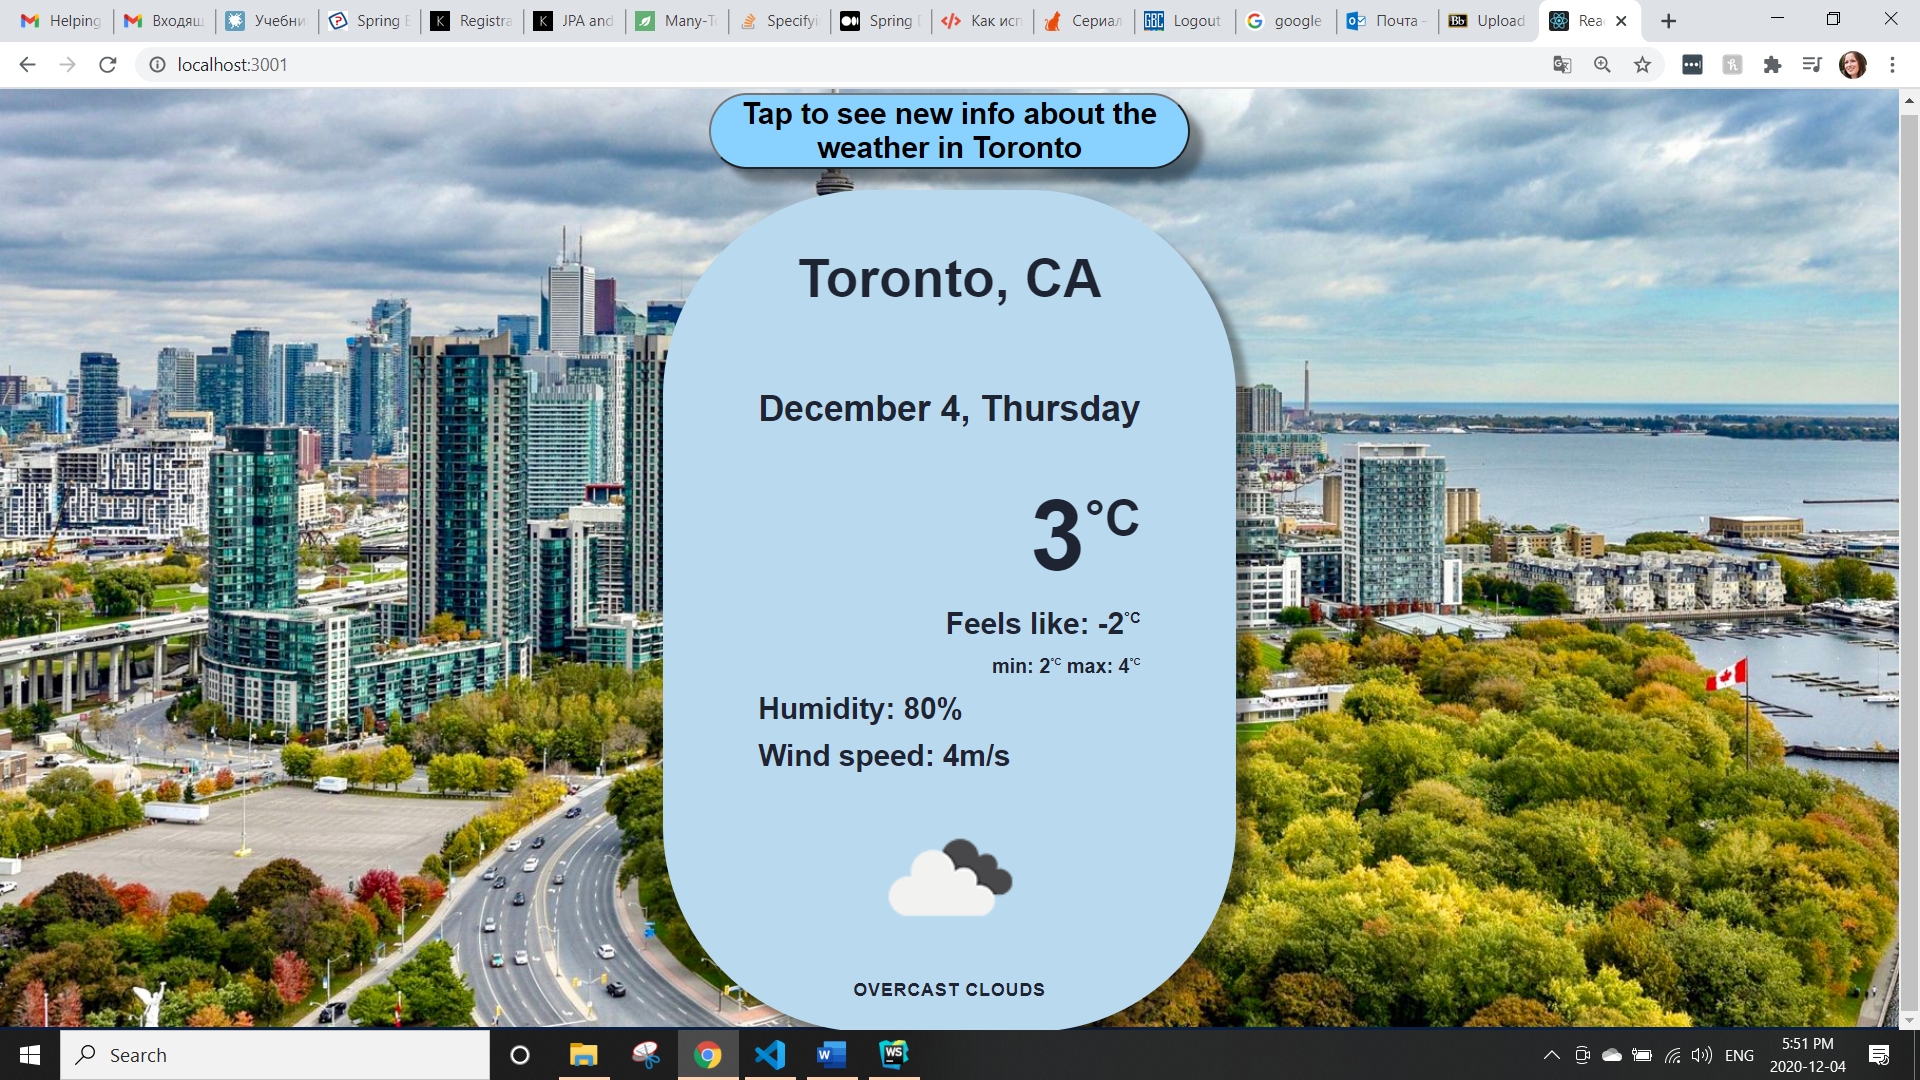
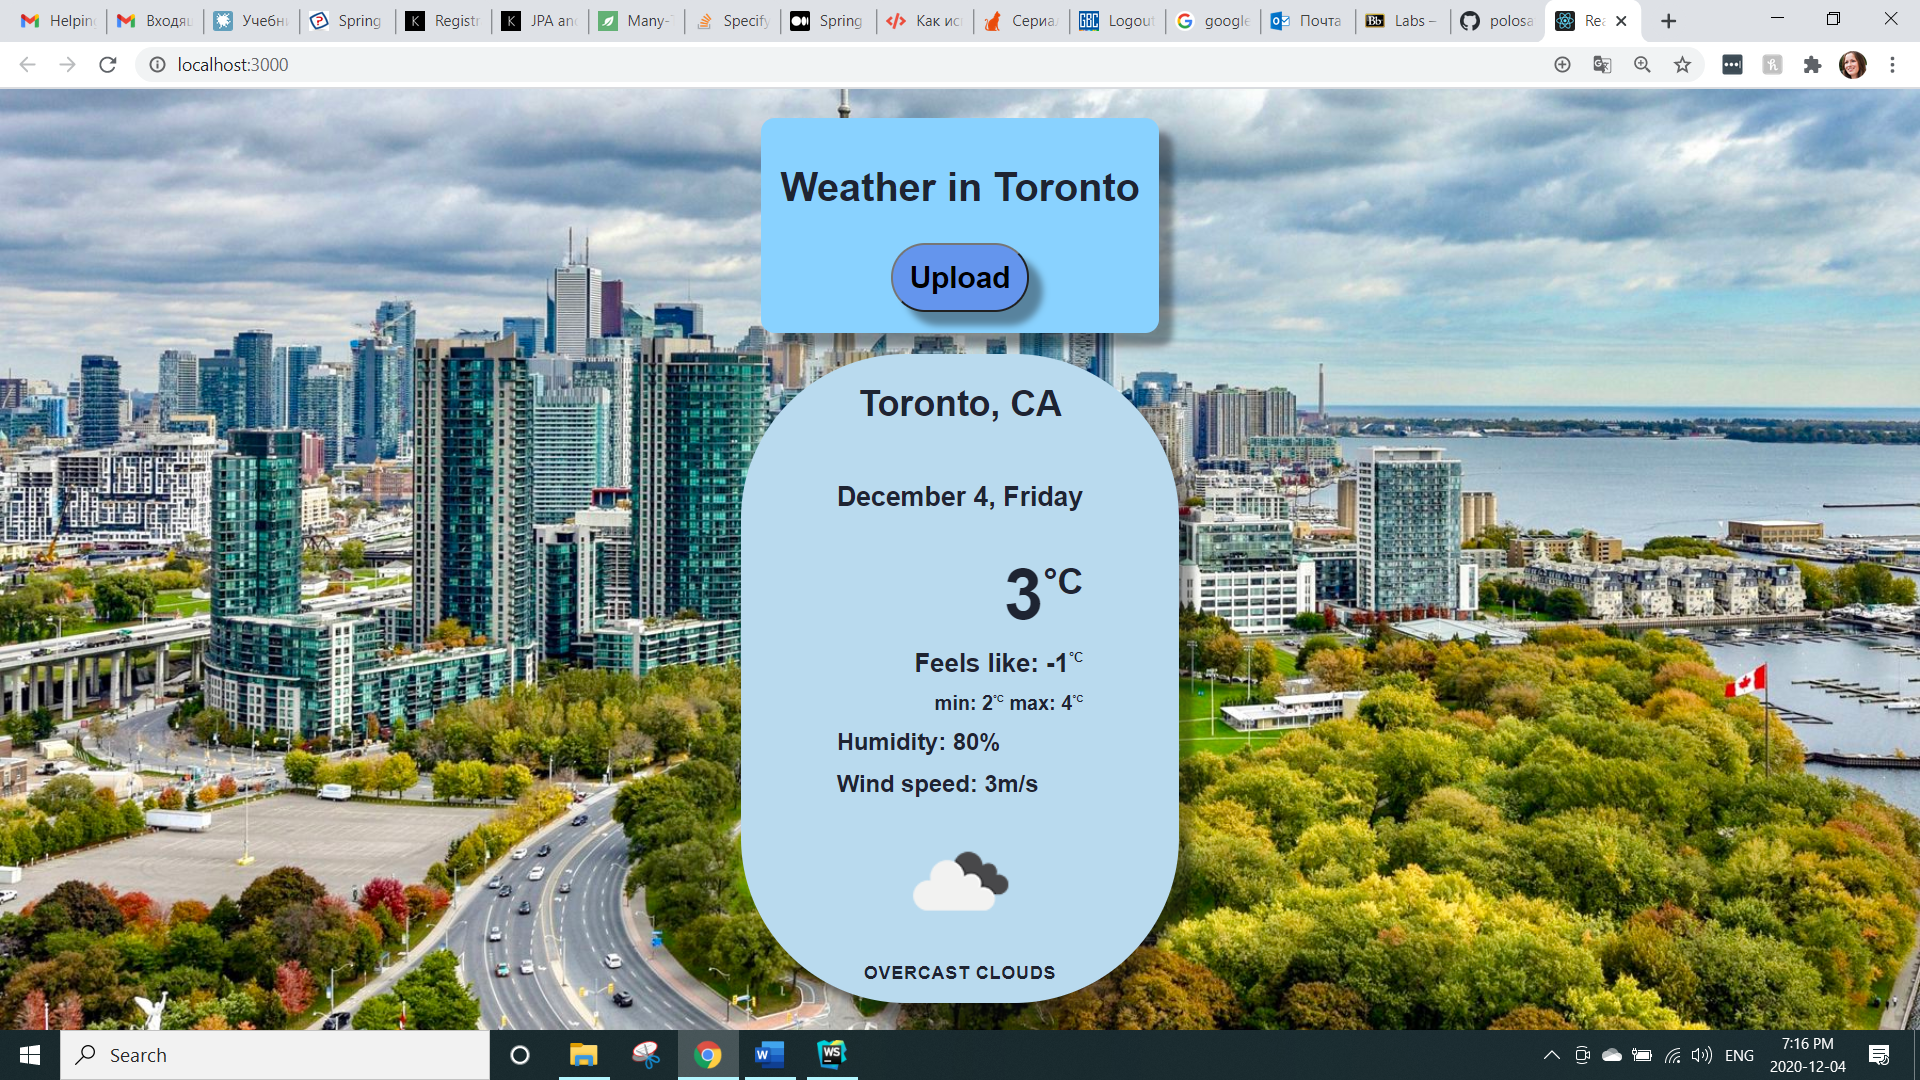
Change second page

diff --git a/src/Weather.js b/src/Weather.js
@@ -9,7 +9,8 @@ const Weather = () => {
     var date = new Date();
 
     const fetchWeather = async () => {
-        const { data } = await axios.get('http://api.openweathermap.org/data/2.5/weather?q=Toronto&units=metric&appid=6508c02ccc05f225734d2568a4c6dadd');
+        const { data } = await axios.get('http://api.openweathermap.org/data/2.5/weather?q=Toronto&units=metric&appid=3d1393770561b76e576aa6da96417dcc');
+            //6508c02ccc05f225734d2568a4c6dadd
         console.log(data);
         setWeather(data);
         return data;
@@ -19,12 +20,12 @@ const Weather = () => {
         <div className="main-container">
             <div className="topic">
             <h1>Weather in Toronto</h1>
-            <button type="button" className="button-click" onClick={fetchWeather}>Upload</button><br/>
-            </div>
+            <button type="button" className="button-click" onClick={fetchWeather}>Upload</button>
+            </div><br/>
             {weather.main && (
                 <div className="city">
                     <h2 className="city-name"><span>{weather.name}, {weather.sys.country}</span></h2>
-                    <h3 className="city-name-med">{months[(date.getMonth()).toLocaleString()]} {date.getDate()}, {days[date.getDate()]+1}</h3>
+                    <h3 className="city-name-med">{months[(date.getMonth()).toLocaleString()]} {date.getDate()}, {days[date.getDate()+1]}</h3>
                     <div className="city-temp">{Math.round(weather.main.temp)}<sup>&deg;C</sup></div>
                     <div className="city-temp-medf">Feels like: {Math.round(weather.main.feels_like)}<sup>&deg;C</sup></div>
                     <div className="city-temp-mini">min: {Math.round(weather.main.temp_min)}<sup>&deg;C</sup> max: {Math.round(weather.main.temp_max)}<sup>&deg;C</sup></div>

diff --git a/src/App.css b/src/App.css
@@ -48,8 +48,8 @@ html, body, #root {
     display: flex;
     justify-content: center;
     flex-direction: column;
-    padding: 10px 5%;
-    border-radius: 150px;
+    padding: 1px 5%;
+    border-radius: 120px;
     background: rgb(185, 218, 238);
     box-shadow: 10px 10px 5px 0px rgba(15, 15, 15, 0.404);
 }
@@ -62,7 +62,7 @@ p {
 }
 
 .city-temp {
-    font-size: 5rem;
+    font-size: 4em;
     font-weight: bold;
     margin-top: 10px;
     color: #1e2432;
@@ -70,7 +70,7 @@ p {
 }
 
 .city-temp-medf {
-  font-size: 1.5rem;
+  font-size: 1.3rem;
   font-weight: bold;
   margin-top: 10px;
   color: #1e2432;
@@ -78,7 +78,7 @@ p {
 }
 
 .city-temp-med {
-  font-size: 1.5rem;
+  font-size: 1.2rem;
   font-weight: bold;
   margin-top: 10px;
   color: #1e2432;
@@ -97,12 +97,12 @@ p {
 }
 
 .city-name {
-    font-size: 3em;
+    font-size: 2em;
     text-align: center;
 }
 
 .city-name-med {
-  font-size: 2em;
+  font-size: 1.5em;
   text-align: left;
 }
 
@@ -116,8 +116,8 @@ p {
 
 .city-icon {
     margin-top: 10px;
-    width: 130px;
-    height: 130px;
+    width: 100px;
+    height: 100px;
 }
 
 .info {

diff --git a/README.md b/README.md
@@ -2,3 +2,4 @@
 Full stack assignment 2
 ![alt text](https://github.com/polosataya-koza/101239316_comp3123_a2/blob/master/Screenshot1.png?raw=true)
 ![alt text](https://github.com/polosataya-koza/101239316_comp3123_a2/blob/master/Screenshot2.png?raw=true)
+![alt text](https://github.com/polosataya-koza/101239316_comp3123_a2/blob/master/Screenshot3.png?raw=true)
